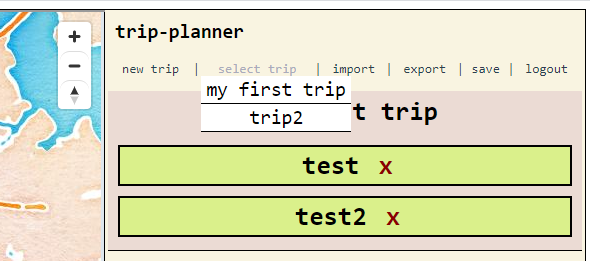
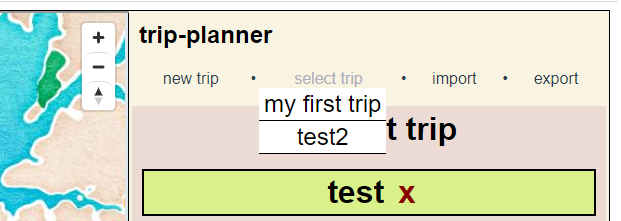
more edits

diff --git a/src/components/TripRoute.vue b/src/components/TripRoute.vue
@@ -41,7 +41,7 @@
 			<navigation :list-of-trip-names="listOfTripNames"></navigation>
 			
 			<div id='tripInfo'>
-				<h1 class='tripTitle' v-on:click="toggleEdit">{{tripName}}</h1>
+				<h1 class='tripTitle'>{{tripName}}</h1>
 				<destinationList :list-of-dest="listOfDest"></destinationList>
 			</div>
 			
@@ -57,7 +57,8 @@
 import { Component, Vue, Prop, Watch } from 'vue-property-decorator';
 import DestinationList from './DestinationList.vue';
 import Navigation from './Navigation.vue';
-import { Destination } from '../triproute';
+import { Destination } from '../utils/triproute';
+import { Modal } from '../utils/modal';
 
 @Component({
 	components: {
@@ -68,7 +69,7 @@ import { Destination } from '../triproute';
 
 export default class TripRouteMap extends Vue {
 	
-	@Prop({ required: true }) public listOfDest!: Array<Destination>; // the ! == not null
+	@Prop({ required: true }) public listOfDest!: Array<Destination>; // the ! means 'not null'
     @Prop({ required: true }) public listOfTripNames!: Array<string>;
 	@Prop({ required: true }) public tripName!: string;
 	@Prop({ required: true }) public suggestedNextDest!: any[];
@@ -79,8 +80,6 @@ export default class TripRouteMap extends Vue {
 	onDestChange(newVal: Array<Destination>, _: Array<Destination>): void {
 		// note that we shouldn't need to care about the old value (the 2nd arg)
 		this.updateMap(newVal);
-		//console.log(newVal);
-		//console.log(oldVal);
 
 		// whenever listOfDest changes, suggestedNextDest should too
         if(this.showSuggestedNextHops) {
@@ -120,6 +119,34 @@ export default class TripRouteMap extends Vue {
         }
     }
 	
+	// TODO: not completely implemented but this is for changing a trip name
+	async toggleTripTitleEdit(evt: any): Promise<void> {
+		if(evt.target.classList.contains("tripTitle")){
+			evt.target.setAttribute("contenteditable", "true");
+		}else{
+			// check if we should edit the trip title. if the current text is of another
+			// trip that already exists, don't allow it and reset the text
+			// otherwise, update
+			const trip = document.querySelector(".tripTitle"); // there should only be one trip shown at a time
+			
+			if(trip){
+				const editedTripName = trip.textContent!.trim();
+				if(editedTripName !== this.tripName && this.listOfTripNames.includes(editedTripName)){
+					// TODO: having trouble figuring out the right logic to handle this when switching between trips from the dropdown
+					// because this seems to get triggered, even though re-render is not a click event??
+					//const modal = new Modal();
+					//await modal.createMessageModal(`A trip named "${editedTripName}" already exists!`);
+					trip.textContent = this.tripName;
+				}else{
+					// TODO: use a data or computed property based on the prop's value to update this.tripName
+					// also, how would saving this trip work? the new name change would have to bubble up to the map holding all the trips in main.ts I think
+					//this.tripName = editedTripName;
+				}
+				trip.setAttribute("contenteditable", "false");
+			}
+		}
+	}
+	
     _handleIframeLogs(evt: any): void {
 		console.log(evt);
 	}
@@ -134,11 +161,6 @@ export default class TripRouteMap extends Vue {
         }
 	}
 	
-	toggleEdit(evt: any){
-		//console.log(evt);
-		evt.target.setAttribute('contenteditable', "true");
-	}
-	
 	mounted(){
 		// the iframe might not be ready?
 		// so listen for the ready event first
@@ -146,6 +168,9 @@ export default class TripRouteMap extends Vue {
 		
 		// set up listeners for any messages that come from the iframe
 		window.document.addEventListener('iframeLogs', this._handleIframeLogs, false);
+		
+		// allow user to stop the trip title from being editable when clicking elsewhere other than the title text
+		window.document.addEventListener('click', this.toggleTripTitleEdit);
 	}
 }
 </script>

diff --git a/src/main.ts b/src/main.ts
@@ -1,8 +1,8 @@
 import Vue from 'vue'
 import App from './App.vue'
 import axios from 'axios';
-import { Modal } from './modal';
-import { Destination } from './triproute';
+import { Modal } from './utils/modal';
+import { Destination } from './utils/triproute';
 
 Vue.config.productionTip = false
 
@@ -195,9 +195,10 @@ new Vue({
 	
     mounted: function() {
         // TODO: at some point we want to load in all the trip routes of this user
-        // (after we have user profiles and stuff set up)
 		
 		// listen for the custom event 'addDest' from the iframe (which is the map)
+		// every time we add a new destination and the user wants next destination suggestions,
+		// we make a call to the API server to fetch those suggestions.
 		document.addEventListener('addDest', (evt) => {
 			// if adding a new destination was successful to the iframe map, a custom addDest event will be
 			// emitted from the iframe along with that new destination's data, which gets received here.
@@ -239,9 +240,9 @@ new Vue({
 			// get suggested next hops using the currently last destination in the current trip
 			const currTripDestList: Array<Destination> = this.tripData[this.currTripIndex].listOfDest;
 			const lat = currTripDestList[currTripDestList.length-1].latitude;
-			const ln = currTripDestList[currTripDestList.length-1].longitude;
+			const lng = currTripDestList[currTripDestList.length-1].longitude;
 			
-			(this as any).requestSuggestedNextHops(lat, ln).then((data: any) => {
+			(this as any).requestSuggestedNextHops(lat, lng).then((data: any) => {
 				this.suggestedNextDest = data;
 			});
         })

diff --git a/src/components/Navigation.vue b/src/components/Navigation.vue
@@ -9,7 +9,7 @@
 				new trip
 			</li>
 
-			<li> - </li>
+			<li> • </li>
 			<li class='dropdown'>
 				<p class='dropbtn'> select trip </p>
 				<div class='dropContent'>
@@ -25,19 +25,19 @@
 				</div>
 			</li>
 
-			<li> - </li>
+			<li> • </li>
 			<li class="selectOption" @click="triggerImport"> import </li>
 			<input type='file' @change="importData" id='importTripData'>
 
-			<li> - </li>
+			<li> • </li>
 			<li class="selectOption" @click="exportData"> export </li>
 
 			<!-- TODO 
 			
-			<li> - </li>
+			<li> • </li>
 			<li class="" @click="saveData"> save </li>
 
-			<li> - </li>
+			<li> • </li>
 			<li class=""> logout </li>
 			
 			-->
@@ -46,7 +46,7 @@
 </template>
 
 <script lang="ts">
-import { Modal } from "../modal";
+import { Modal } from "../utils/modal";
 
 export default {
 	props: {

diff --git a/src/components/Calendar.vue b/src/components/Calendar.vue
@@ -7,10 +7,9 @@
             <input :id="destName + 'day'" type="text" size="2" maxlength="2" placeholder="dd" />
             <p> / </p>
             <input :id="destName + 'year'" type="text" size="4" maxlength="4" placeholder="yyyy" />
-            <h3> (MM/DD/YYYY) </h3>
         </div>
         <div class="calendar" v-if="!isEditing">
-            <h3>{{header}}:  {{date.length === 2 ? "" : date.replaceAll("-", "/")}} (MM/DD/YYYY)</h3>
+            <h3>{{header}}:  {{date.length === 2 ? "" : date.replaceAll("-", "/")}} </h3>
         </div>
     </div>
 </template>

diff --git a/public/map.ts b/public/map.ts
@@ -230,8 +230,7 @@ class MapBoxWrapper {
 				popupContent.appendChild(destLng);
 				popupContent.appendChild(destLat);
 				
-				// we should also make each suggested next destination
-				// able to be selected as a next destination by the user
+				// make each suggested next destination selectable as a next destination by the user
 				const selectBtn = document.createElement("button");
 				selectBtn.textContent = "select as next destination?";
 				popupContent.appendChild(selectBtn);

diff --git a/src/components/Destination.vue b/src/components/Destination.vue
@@ -124,9 +124,9 @@
 
 <script lang="ts">
 import Vue from 'vue';
-import { Destination } from '../triproute';
-import { Modal } from '../modal';
 import Calendar from './Calendar.vue';
+import { Destination } from '../utils/triproute';
+import { Modal } from '../utils/modal';
 
 // get info passed from parent component (i.e. Sidebar)
 export default Vue.extend({

diff --git a/tests/unit/destination.spec.ts b/tests/unit/destination.spec.ts
@@ -1,6 +1,6 @@
 import { shallowMount } from '@vue/test-utils'
 import DestinationComponent from '@/components/Destination.vue'
-import { Destination } from '@/triproute'
+import { Destination } from '@/utils/triproute'
 
 // TODO: not test implementation details
 describe('Destination.vue', () => {
